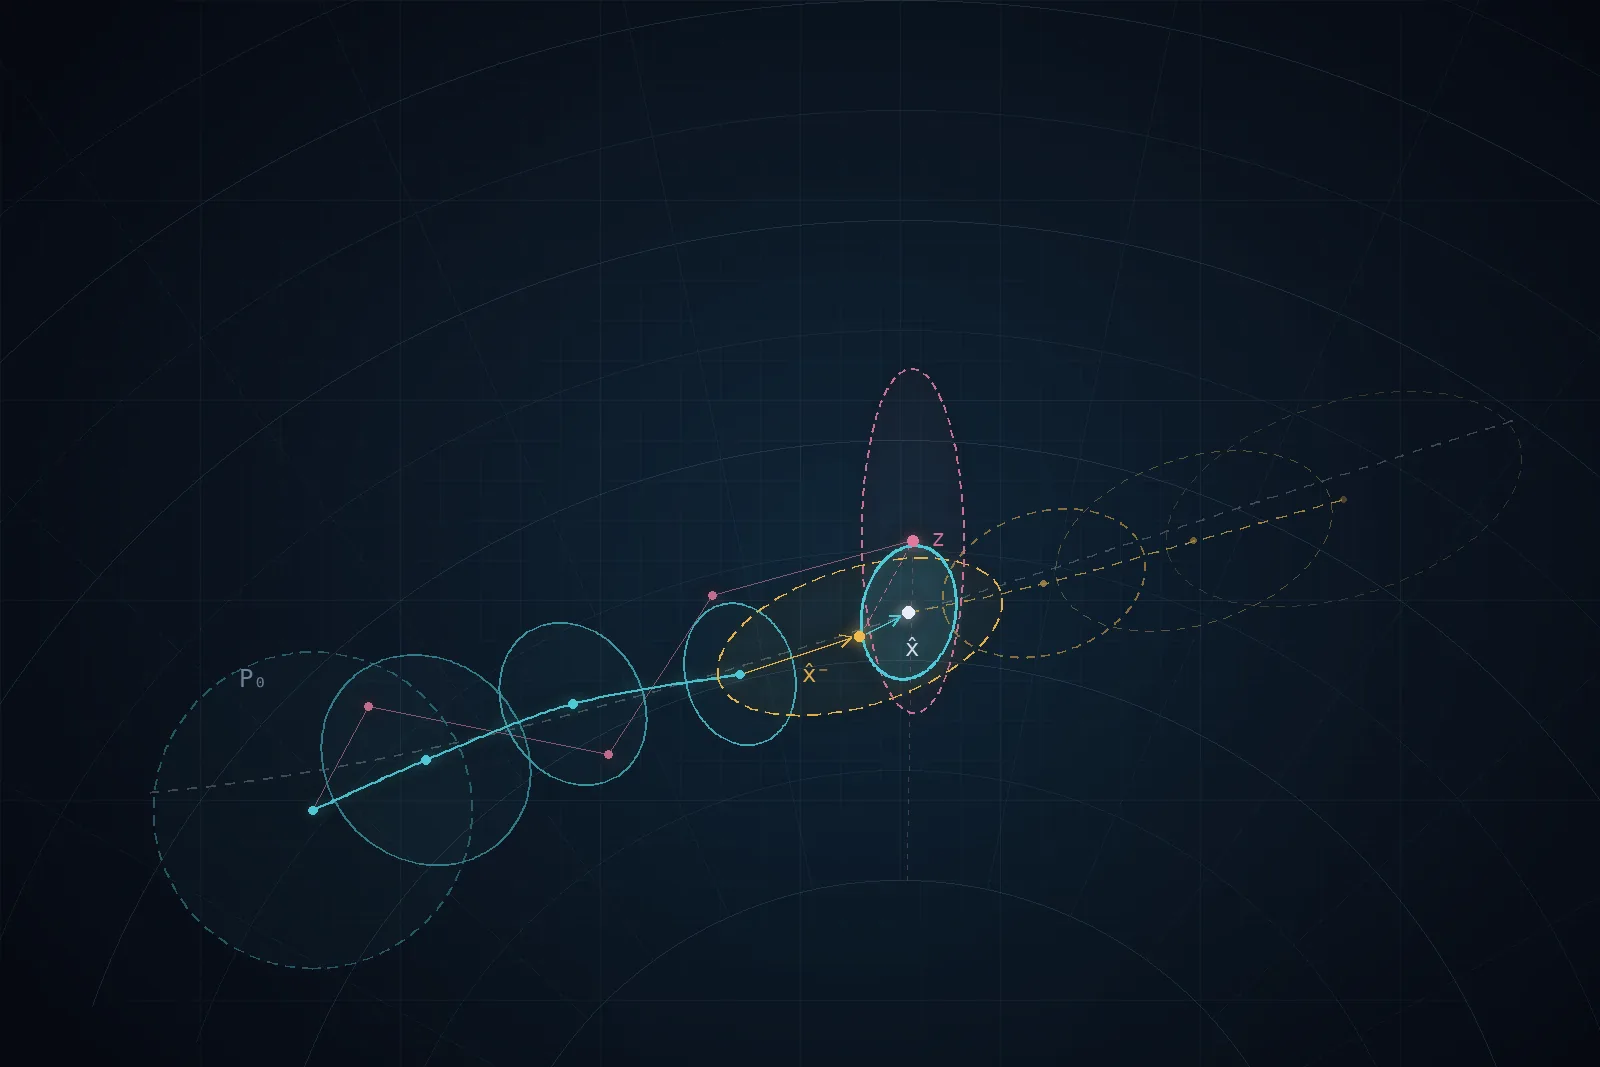
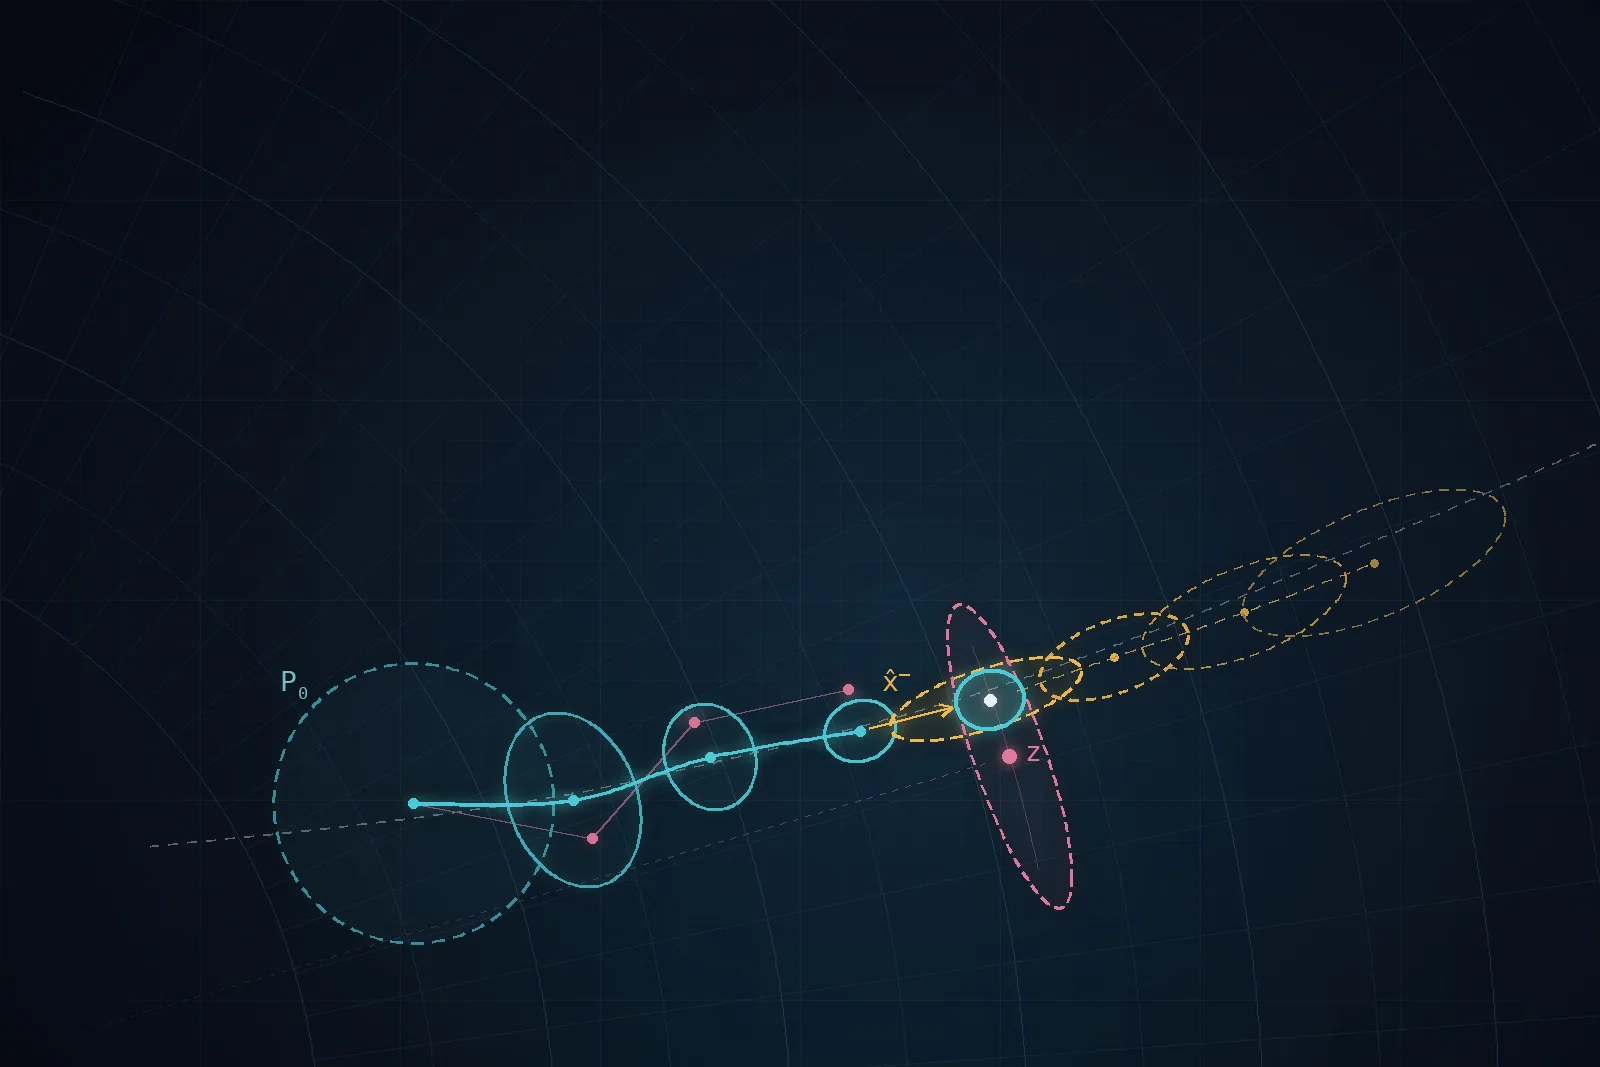
Kalman kapağının son revizyonu; Hello world dosyasını gerçek tarihiyle adlandır
- Kalman: ölçüm elipsi sensöre göre teğet yönde (yazıdaki açıklamayla
  uyumlu), kovaryansın küçülmesi ve tahmin/güncelleme adımları belirgin.
- _posts/1970-01-01-hello-world.md → 2022-07-12-hello-world.md. Adres
  permalink ile /1970/01/01/hello-world.html olarak kalıyor (sitemap
  aynı, bağlantı taraması 0 eksik).

Claude-Session: https://claude.ai/code/session_01C1Ed6yAnTwHFpeSZRHm2B8

diff --git a/_posts/2022-07-12-hello-world.md b/_posts/2022-07-12-hello-world.md
@@ -3,7 +3,7 @@ title: Hello world!
 subtitle: Merhaba Dünya!
 background: "/img/posts/hello-world-cover.webp"
 date: '2022-07-12 01:16:40'
-# İlk yayın 1970 tarihiyle yapılmıştı; eski bağlantılar kırılmasın diye adres korunuyor.
+# İlk yayında tarih 1970 verilmişti; eski bağlantılar kırılmasın diye adres korunuyor.
 permalink: /1970/01/01/hello-world.html
 layout: post
 lang: tr
